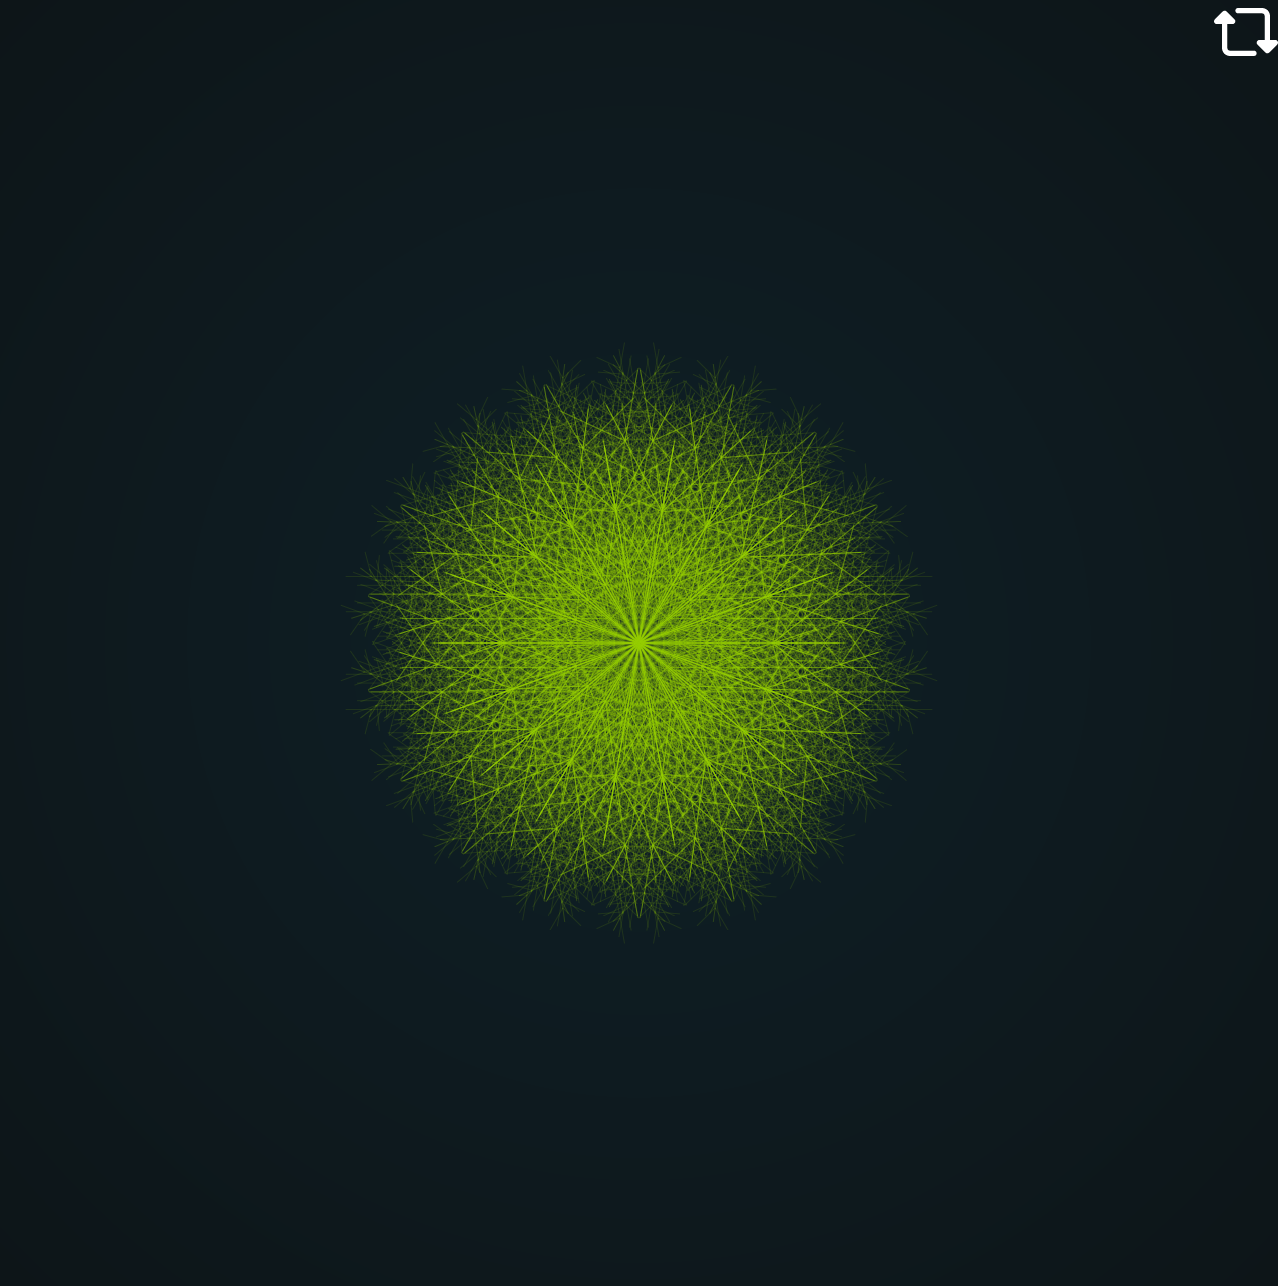
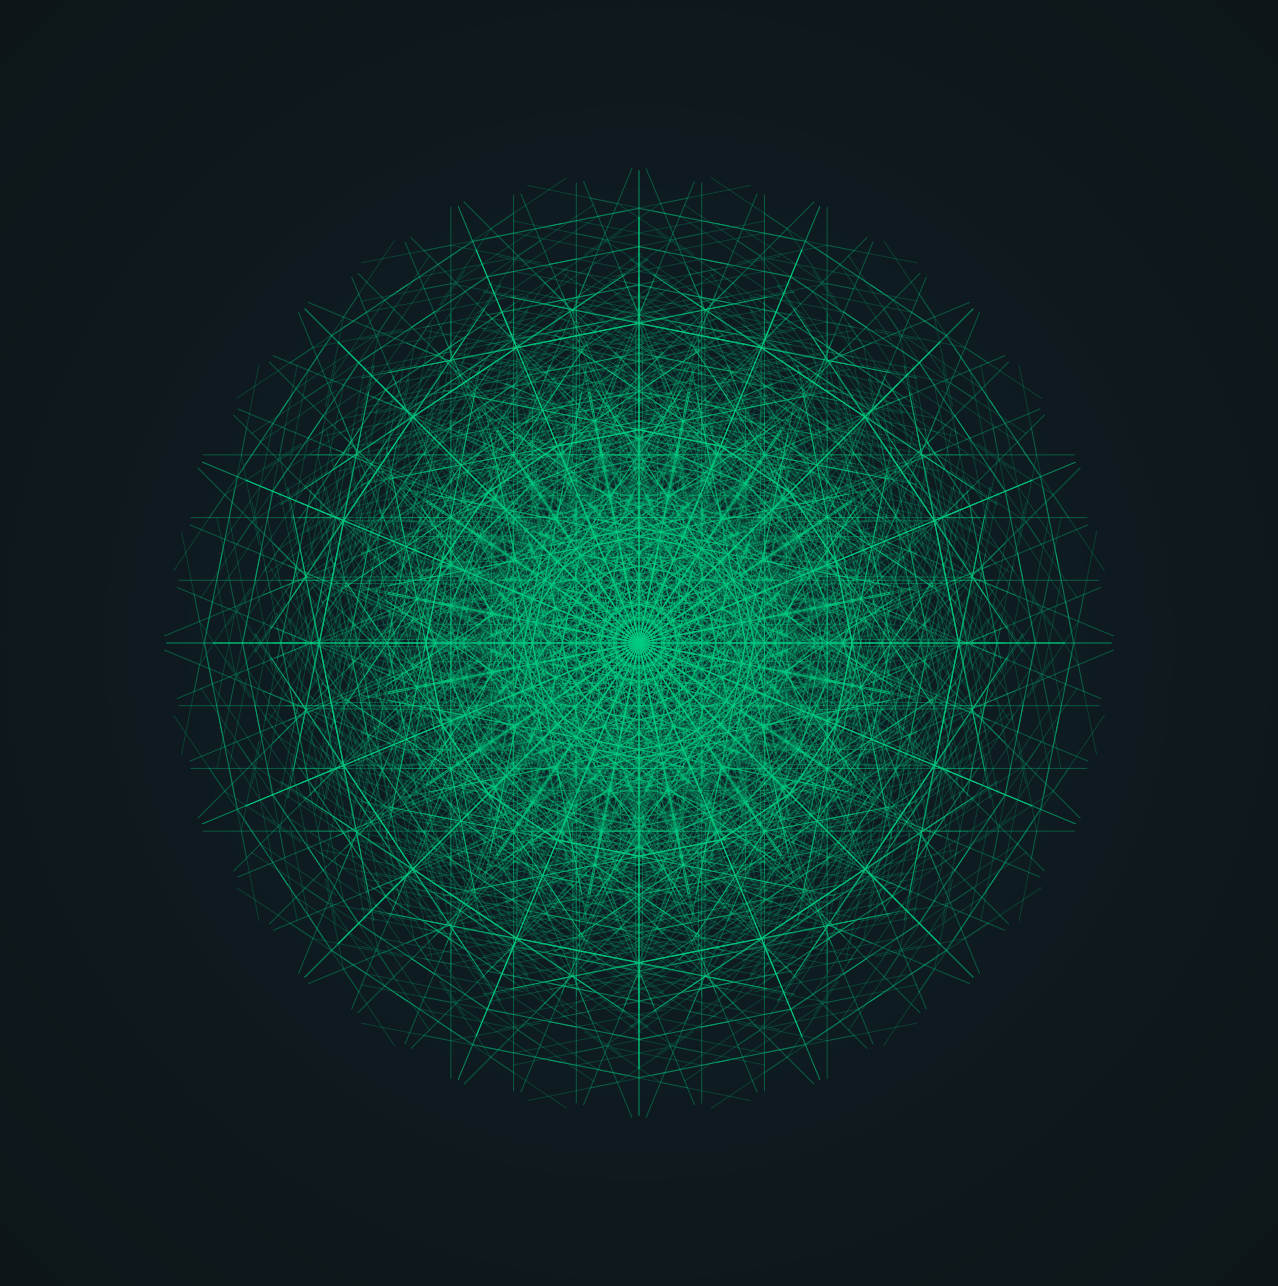
hub update

Changed region(s): [[0.1526, 0.1555, 0.8545, 0.8709], [0.946, 0.0, 1.0, 0.0622]]

diff --git a/animations/style.css b/animations/style.css
@@ -33,49 +33,6 @@ body{
     overflow: hidden;
 }
 
-
-.movie.green::before{
-    background-color: #009C4C;
-}
-.movie.red::before{
-    background-color: #E50914;
-}
-.movie.yellow::before{
-    background-color: #F7C727;
-}
-
-
-.movie:hover:before{
-    clip-path: circle(8vh at 100% -25%);
-}
-
-.rating{
-    width: 50%;
-    display: flex;
-    
-}
-.reviews{
-    color: white;
-    position: absolute;
-    bottom: 0em;
-    display: flex;
-    padding: .7em;
-    gap: 2em;
-    font-size: 2vh;
-    transition: .5s ease-in-out;
-}
-.reviews span{
-    flex: 1;
-}
-
-.movie:hover .reviews{
-    bottom: -30em;
-}
-.movie:hover:after{
-    position: absolute;
-    top: -10%; left: 100%;
-    font-size: 2em;
-}
 .imageContainer{
     position: absolute;
     top: 0%;
@@ -101,7 +58,7 @@ body{
 
 .description{
     color: white;
-    font-size: 2vh;
+    font-size: 3vh;
     position: absolute;
     bottom: 30em;
     text-align: center;
@@ -153,4 +110,19 @@ li{
     justify-content: center;
     align-items: center;
     
+}
+
+#github, #demo{
+    width: 3em;
+    height: 3em;
+}
+
+#demo:hover{
+    filter: invert(65%) sepia(75%) saturate(480%) hue-rotate(74deg) brightness(98%) contrast(95%);
+    transition: .5s;
+}
+
+#github:hover{
+    filter: invert(100%) sepia(1%) saturate(2462%) hue-rotate(157deg) brightness(123%) contrast(95%);
+    transition: .5s;
 }

diff --git a/animations/Fractal_Snowflake/scripts.js b/animations/Fractal_Snowflake/scripts.js
@@ -23,11 +23,11 @@ class Snowflake{
         ctx.lineWidth = this.lineWidth;
         ctx.beginPath();
         ctx.moveTo(0,0);
-        ctx.lineTo(200,0);
+        ctx.lineTo(canvas.width/3,0);
         ctx.stroke();
         for (let i=0; i<this.branches + 1; i++){
             ctx.save(); //save0
-            ctx.translate(200 * i/ (this.branches + 1), 0);
+            ctx.translate(canvas.width/3 * i/ (this.branches + 1), 0);
             ctx.scale(.6,.6);
             ctx.save(); //save1
 
@@ -49,12 +49,12 @@ let refreshTimes
 
 function controller(){
     let hue = (Math.random()*360);
-    let angle = Math.PI * 2 * Math.random();
+    let angle = Math.PI * Math.random()*2;
     let color = 'hsl(' + hue + ',100%,40%)';
-    let maxLevel = (Math.random()*3)+2;
-    let branches = Math.floor(Math.random() * (5 - 1) + 1)
-    let lineW = Math.floor(Math.random() * (2 - 1) + 1)
-    let times = Math.floor(Math.random() * (25 - 5) + 5)
+    let maxLevel = 3
+    let branches = Math.floor(Math.random() * 4  + 1)
+    let lineW = Math.floor(Math.random() * 5 + 1)
+    let times = Math.floor(Math.random() * 30 + 5)
     refreshTimes = times
     newSnowflake = new Snowflake(angle, maxLevel, branches, color,lineW)
     for( i=0; i<times; i++){

diff --git a/animations/scripts.js b/animations/scripts.js
@@ -25,14 +25,10 @@ http.get('animations.json', function(status, response){
                 <div class="showInfo">
 
                 <div class="cast">
-                    <ul>
-                        <a href=${data.links.github}>Github</a>
-                    </ul>
+                <a href=${data.links.github}><img id="github" src="/img/github.svg"></a>
                 </div>
                 <div clas="similar">
-                    <ul>
-                    <a href=${data.links.demo}>Demo</a>
-                    </ul>
+                <a href=${data.links.demo}><img id="demo" src="/img/play.svg"></a>
                 </div>
             </div>
             </div>

diff --git a/animations/Fractal_Tree/style.css b/animations/Fractal_Tree/style.css
@@ -9,7 +9,7 @@
     top:0; left: 0;
     width: 100%;
     height: 100%;
-    background: radial-gradient(#41295a, #2F0743);
+    background: radial-gradient(black, rgb(31, 27, 27));
     z-index: -1;
 
 }
